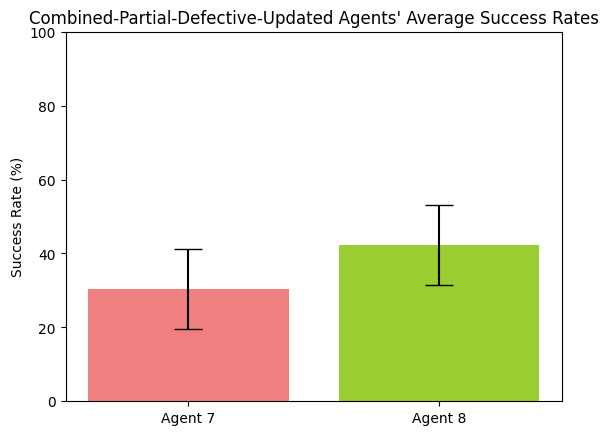
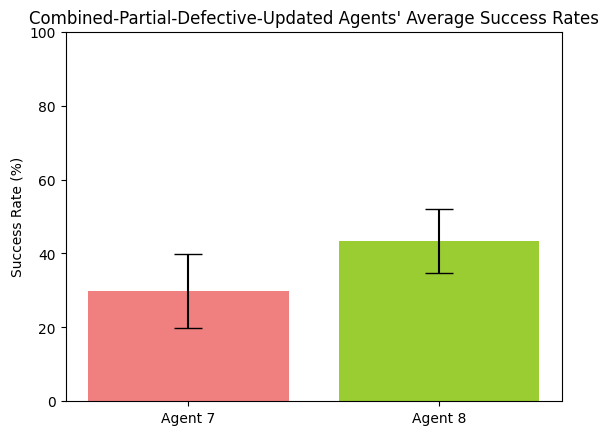
fixed pred beliefs

diff --git a/game/agents/agent8c.py b/game/agents/agent8c.py
@@ -108,11 +108,13 @@ class Agent8C(Agent8B):
 
         self.pred_update_beliefs(graph)
 
+        surveyed_node_new_pred_antibelief = 1 - surveyed_node_new_pred_belief
+        surveyed_node_update_beliefs_antibelief = max(1 -
+                                                      self.pred_beliefs[surveyed_node], 0.0001)
+
         for key, value in self.pred_beliefs.items():
             if key == surveyed_node:
-                self.pred_beliefs[key] = value * \
-                    (1 - surveyed_node_new_pred_belief) + \
-                    surveyed_node_new_pred_belief
+                self.pred_beliefs[key] = surveyed_node_new_pred_belief
             else:
-                self.pred_beliefs[key] = value * \
-                    (1 - surveyed_node_new_pred_belief)
+                self.pred_beliefs[key] = value * surveyed_node_new_pred_antibelief / \
+                    surveyed_node_update_beliefs_antibelief

diff --git a/game/agents/agent7c.py b/game/agents/agent7c.py
@@ -108,11 +108,13 @@ class Agent7C(Agent7B):
 
         self.pred_update_beliefs(graph)
 
+        surveyed_node_new_pred_antibelief = 1 - surveyed_node_new_pred_belief
+        surveyed_node_update_beliefs_antibelief = 1 - \
+            self.pred_beliefs[surveyed_node]
+
         for key, value in self.pred_beliefs.items():
             if key == surveyed_node:
-                self.pred_beliefs[key] = value * \
-                    (1 - surveyed_node_new_pred_belief) + \
-                    surveyed_node_new_pred_belief
+                self.pred_beliefs[key] = surveyed_node_new_pred_belief
             else:
-                self.pred_beliefs[key] = value * \
-                    (1 - surveyed_node_new_pred_belief)
+                self.pred_beliefs[key] = value * surveyed_node_new_pred_antibelief / \
+                    surveyed_node_update_beliefs_antibelief
